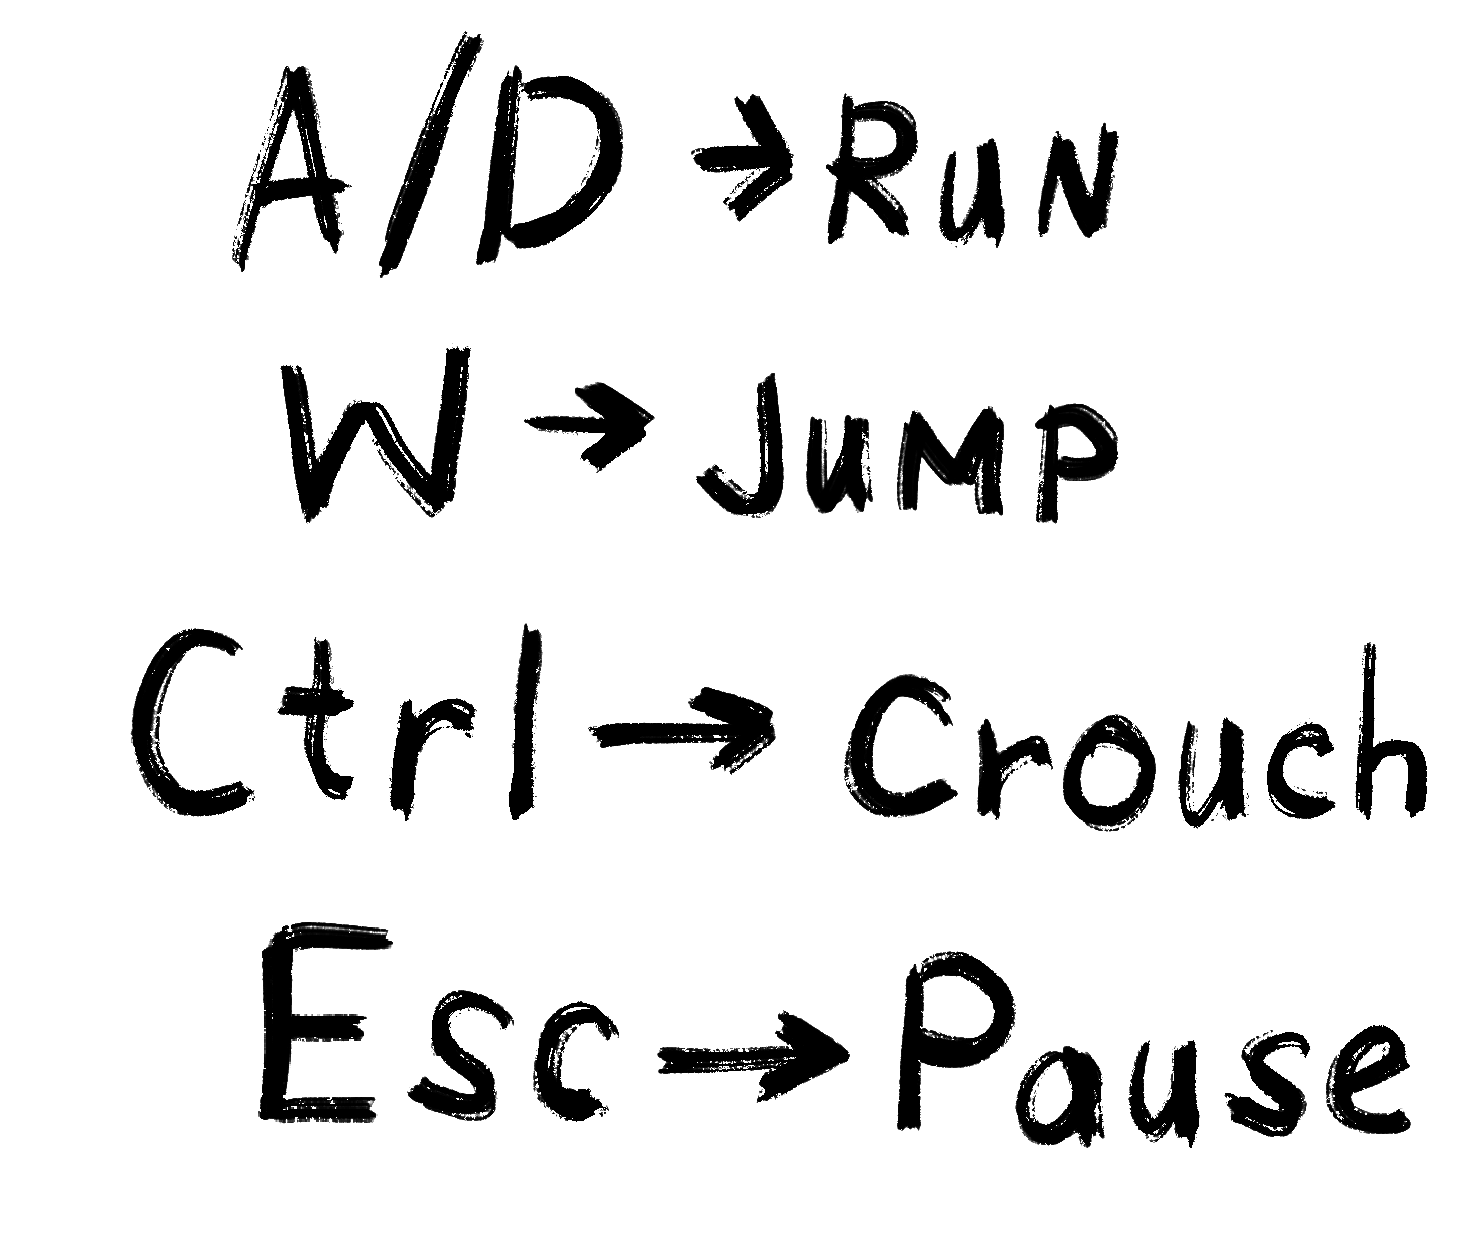
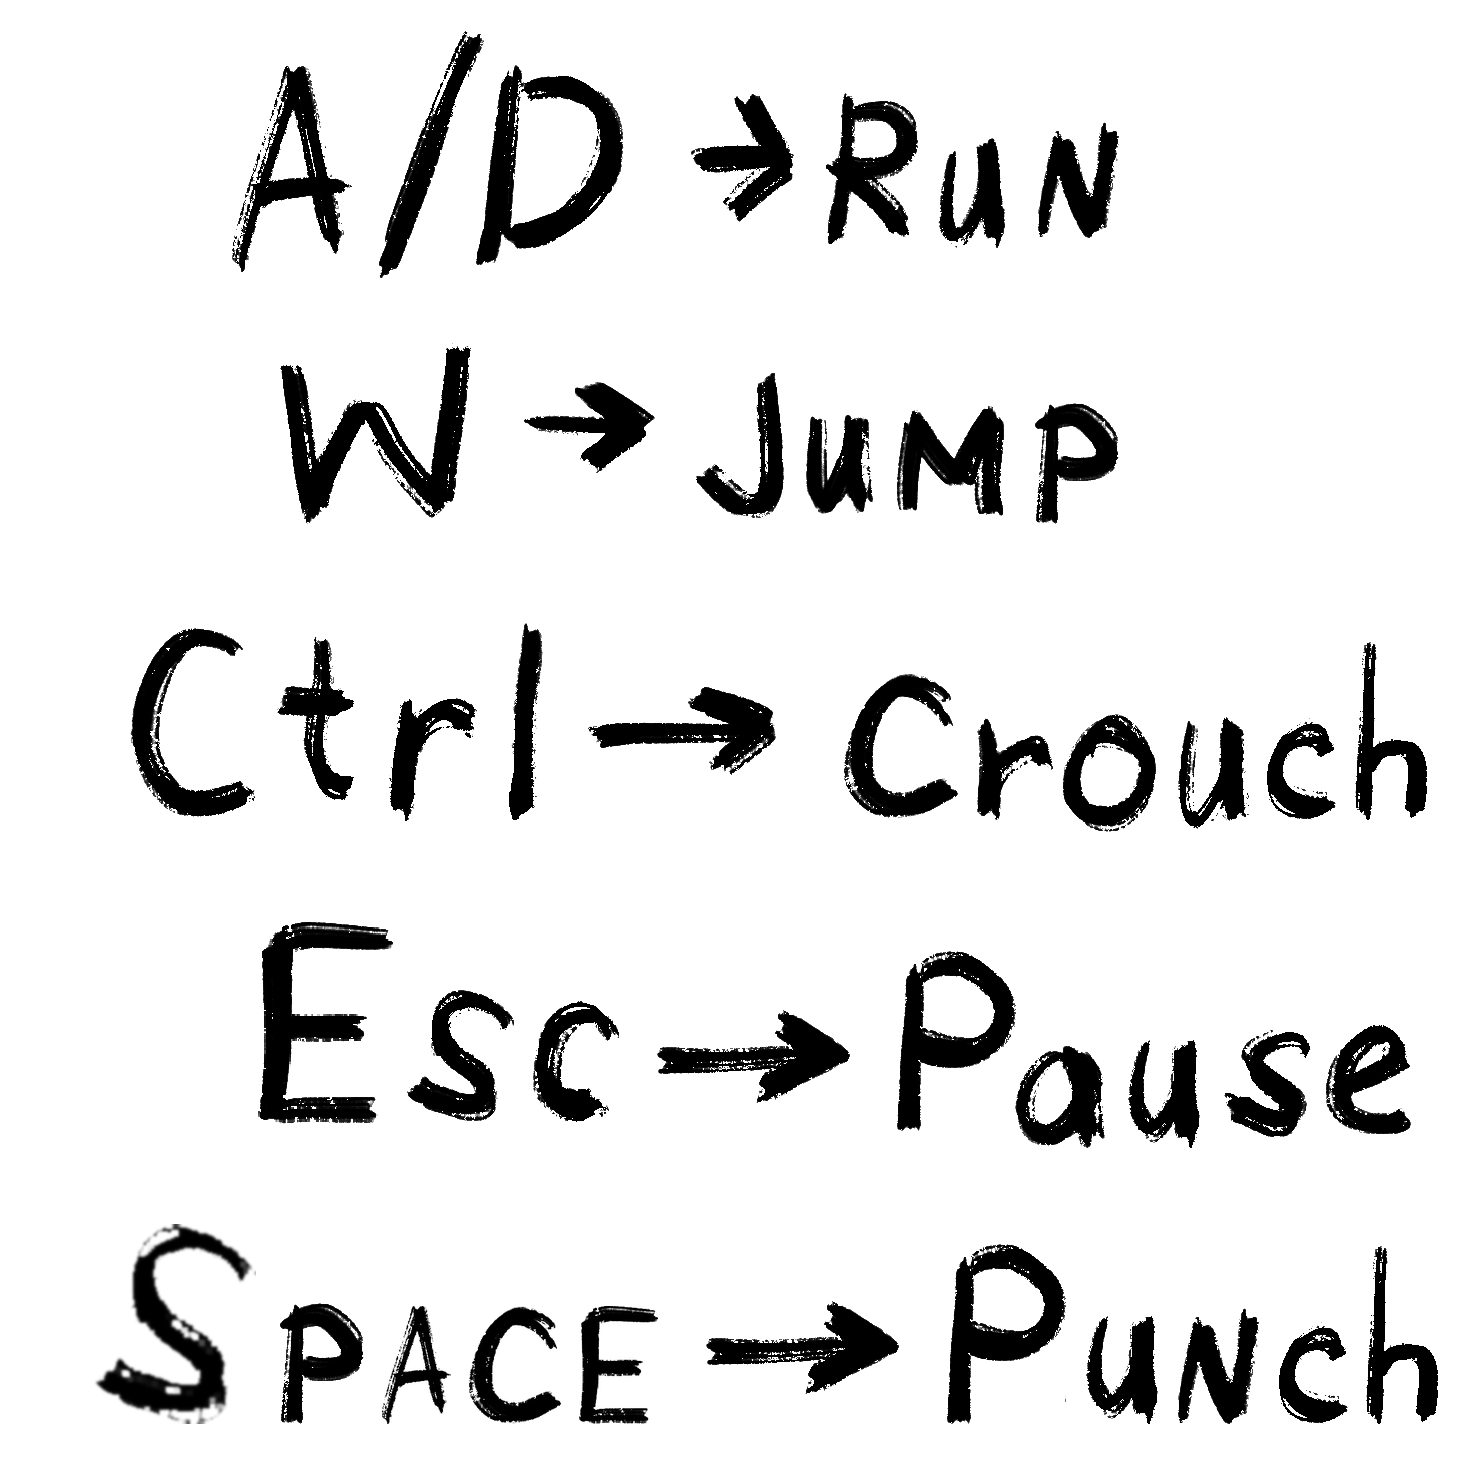
Show the controls on screen at the start, with a Space to punch line
- The controls sheet gets a 'SPACE -> Punch' line made from the
  artist's own letters (cut from the other four lines).
- A small controls window shows bottom-left as soon as play starts,
  without pausing, and fades once the hero has run and jumped (at least
  3 s, at most 12 s of play). Once per launch; the pause menu still
  shows the full sheet.
- Set Up Menus adds it and resizes the pause menu's copy; CLAUDE.md
  updated.

diff --git a/Assets/Scripts/UI/ControlsHint.cs b/Assets/Scripts/UI/ControlsHint.cs
@@ -1,0 +1,73 @@
+using UnityEngine;
+using UnityEngine.InputSystem;
+
+namespace NoRegRats
+{
+    /// <summary>
+    /// The controls sheet in the corner of the screen when play first starts (once per launch, not
+    /// after deaths or restarts), so the keys are seen right away without stopping the game. It
+    /// waits while a menu is open, then fades out once the hero has both run and jumped, or after
+    /// a while at the most. The same sheet stays in the pause menu.
+    /// </summary>
+    [RequireComponent(typeof(CanvasGroup))]
+    public class ControlsHint : MonoBehaviour
+    {
+        [Tooltip("Seconds it stays up at least, even if the keys are used straight away.")]
+        [SerializeField] float minimumTime = 3f;
+        [Tooltip("Seconds after which it fades out anyway.")]
+        [SerializeField] float maximumTime = 12f;
+        [Tooltip("Seconds the fade takes.")]
+        [SerializeField] float fadeTime = 0.8f;
+
+        static bool shownThisLaunch;
+
+        CanvasGroup group;
+        InputAction moveAction;
+        InputAction jumpAction;
+        float shownFor;
+        bool ran;
+        bool jumped;
+        bool fading;
+
+        [RuntimeInitializeOnLoadMethod(RuntimeInitializeLoadType.SubsystemRegistration)]
+        static void ResetOnLaunch() => shownThisLaunch = false;
+
+        void Awake()
+        {
+            group = GetComponent<CanvasGroup>();
+            group.blocksRaycasts = false;
+            moveAction = InputSystem.actions.FindAction("Player/Move", throwIfNotFound: true);
+            jumpAction = InputSystem.actions.FindAction("Player/Jump", throwIfNotFound: true);
+        }
+
+        void Start()
+        {
+            if (shownThisLaunch)
+            {
+                gameObject.SetActive(false);
+                return;
+            }
+            shownThisLaunch = true;
+            group.alpha = 1f;
+        }
+
+        void Update()
+        {
+            // Time only counts during play, so it isn't used up behind the title or the pause menu.
+            if (GamePause.IsFrozen)
+                return;
+
+            shownFor += Time.deltaTime;
+            ran |= Mathf.Abs(moveAction.ReadValue<Vector2>().x) > 0.5f;
+            jumped |= jumpAction.WasPressedThisFrame();
+            if (!fading && shownFor >= minimumTime && ((ran && jumped) || shownFor >= maximumTime))
+                fading = true;
+            if (!fading)
+                return;
+
+            group.alpha = Mathf.MoveTowards(group.alpha, 0f, Time.deltaTime / fadeTime);
+            if (group.alpha <= 0f)
+                gameObject.SetActive(false);
+        }
+    }
+}

diff --git a/Assets/Editor/MenuSetup.cs b/Assets/Editor/MenuSetup.cs
@@ -33,6 +33,7 @@ namespace NoRegRats
         const float PauseWindowScale = 0.55f;
         const float PauseWindowGap = 40f;
         const float ControlsInWindow = 0.85f;
+        const float ControlsHintScale = 0.25f;
 
         static readonly Color TitleBackground = new Color32(187, 187, 187, 255);
         static readonly Color Dim = new Color(0.17f, 0.17f, 0.2f, 0.6f);
@@ -57,6 +58,8 @@ namespace NoRegRats
             }
             BuildLives(hud);
             BuildPauseButton(hud);
+            BuildControlsHint(hud);
+            FitControlsSheet(hud);
             AddClickSound();
 
             EditorSceneManager.MarkSceneDirty(scene);
@@ -121,6 +124,33 @@ namespace NoRegRats
             // With the HUD, under the menus.
             rect.SetSiblingIndex(hud.Find("Hearts").GetSiblingIndex() + 1);
             SetObject(Get<PauseMenu>(hud), "pauseButton", button);
+        }
+
+        /// <summary>
+        /// The controls sheet in a small window in the bottom-left corner, shown when play first
+        /// starts and faded out by ControlsHint once the keys have been used.
+        /// </summary>
+        internal static void BuildControlsHint(Transform hud)
+        {
+            if (hud.Find("Controls Hint") != null)
+                return;
+            Vector2 size = Window * ControlsHintScale;
+            RectTransform card = Rect("Controls Hint", hud, Vector2.zero, new Vector2(30f, 30f) + size * 0.5f, size, new Vector2(0.5f, 0.5f));
+            card.gameObject.AddComponent<CanvasGroup>();
+            Picture(Rect("Back", card, new Vector2(0.5f, 0.5f), Vector2.zero, size, new Vector2(0.5f, 0.5f)), Art("Window"));
+            Sprite keys = Art("Controls");
+            Picture(Rect("Keys", card, new Vector2(0.5f, 0.5f), Vector2.zero, keys.rect.size * ControlsHintScale * ControlsInWindow, new Vector2(0.5f, 0.5f)), keys);
+            card.gameObject.AddComponent<ControlsHint>();
+            // With the HUD, under the menus.
+            card.SetSiblingIndex(hud.Find("Hearts").GetSiblingIndex() + 1);
+        }
+
+        // Keeps the pause screen's copy of the controls sheet sized to the drawing, which grew a line.
+        static void FitControlsSheet(Transform hud)
+        {
+            var keys = (RectTransform)hud.Find("Pause Menu/Controls/Keys");
+            if (keys != null)
+                keys.sizeDelta = Art("Controls").rect.size * PauseWindowScale * ControlsInWindow;
         }
 
         // --- Screens ---

diff --git a/Assets/Editor/HudSetup.cs b/Assets/Editor/HudSetup.cs
@@ -10,9 +10,9 @@ namespace NoRegRats
 {
     /// <summary>
     /// Builds Level1's UI into its HUD canvas: hearts (top left), goal text (top centre), the
-    /// boss bar moved to the bottom, a speech bubble, the lives counter, the pause button and the
-    /// menus (built by MenuSetup); plus an EventSystem for the buttons, a goal trigger where the sewers start, and
-    /// the joke sign's speech trigger. Only adds what isn't there yet. All text uses the first font found in
+    /// boss bar moved to the bottom, a speech bubble, the lives counter, the pause button, the
+    /// controls hint and the menus (built by MenuSetup); plus an EventSystem for the buttons, a
+    /// goal trigger where the sewers start, and the joke sign's speech trigger. Only adds what isn't there yet. All text uses the first font found in
     /// Assets/Art/Fonts/ (drop the hand-drawn font there), or Unity's built-in one.
     /// </summary>
     public static class HudSetup
@@ -53,6 +53,7 @@ namespace NoRegRats
             MenuSetup.Build(hud, playerHealth);
             MenuSetup.BuildLives(hud);
             MenuSetup.BuildPauseButton(hud);
+            MenuSetup.BuildControlsHint(hud);
             BuildEventSystem();
             BuildLevelTriggers(goal, speech);
 

diff --git a/CLAUDE.md b/CLAUDE.md
@@ -36,7 +36,7 @@ Still open (ask Robert who is taking what before starting one):
 | Sound effects | WAV or OGG files: jump, land, footstep, punch (a whoosh, for a miss), hit, rat poof, hurt, King throw, King defeated, Heart, gate, menu click | See "Adding sounds and music" below. No code changes |
 | Brass knuckles | Item art; then code: picking them up raises punch damage | Not started. `PlayerPunch`'s `damage` is the value to raise |
 | Pause button drawing | A PNG of the in-game pause button, saved over `Assets/Art/UI/Menus/PauseButton.png` | The current one is a stand-in drawn to match the menu buttons |
-| Punch drawing | Hero punching frame(s), and an Attack (Space) line on the controls sheet `Assets/Art/UI/Menus/Controls.png` | The punch is faked with a lunge and stretch (`HeroAnimator.Punch`) until then |
+| Punch drawing | Hero punching frame(s) | The punch is faked with a lunge and stretch (`HeroAnimator.Punch`) until then. The controls sheet's "SPACE → Punch" line is pieced together from the artist's own letters; redraw it if wanted (`Assets/Art/UI/Menus/Controls.png`) |
 | Music | A level track and a boss track | Same as sound effects |
 | Hand-drawn font | A `.ttf` or `.otf` file | See "Adding a font" below |
 | Final art for rats, Rat King, Heart, sewer pieces | PNGs with transparent backgrounds | See "Replacing art" below. The current ones are cut out of the paper-prototype photos |
@@ -171,15 +171,15 @@ Notes for Claude:
 | `Assets/Scripts/Enemies/` | `RatEnemy`, `RatKing`, `TrashProjectile` |
 | `Assets/Scripts/Items/` | `HeartPickup` |
 | `Assets/Scripts/Level/` | `GameSession` (lives, what survives a death, the win or loss, run time), `ParallaxBackground`, `BossArena`, `SlidingGate`, `LevelExit`, `GoalTrigger`, `SpeechTrigger` |
-| `Assets/Scripts/UI/` | `ScreenFader` (fade out, reload the level, fade in), `BossHealthBar`, `HeartsDisplay`, `LivesDisplay`, `GoalText`, `SpeechBubble`, `TitleMenu`, `PauseMenu`, `WinScreen`, `LoseScreen`, `MenuButtonFeedback`, `GamePause` (freeze behind menus) |
-| `Assets/Art/` | Drawn art. `Hero/`: `Hero_Idle.png` and `Hero_Run_1..8.png` (originals at full size; imported capped at 512 px). `Rats/`: `Rat_Plain.png`, `Rat_RedCap.png`, `Rat_Jacket.png`, `RatKing.png`, cut out of the paper-prototype sketch photos (placeholders; replace with same-named PNGs). `Items/Heart.png` (cut out). `Placeholder/`: `PaperBall.png`, `Trash.png`, `Bars.png` (tiles vertically, 1 x 4 units), `Puff.png` (scribble puff, 1 unit). `Level/`: level pieces cut out of the sketch photos (the train car is one drawn end mirrored; the two signs were redrawn because their light grey can't be separated from the grid). `Street/`: the team artist's street pieces (Ground1–4 sidewalk slabs, Street road strip, Tile1/1_2/2/3 floating sidewalk chunks, FireHydrant, GarbageBin, PowerBox), sized from their mockup. `Background/GraphPaper.png`: generated, tiles at 1 cell = 1 unit. `Background/Resources/`: `City1_*.png` / `City2_*.png`, the team's two skylines split into `Far`, `Mid` and `Near` layers with transparent backgrounds (replace with same-named PNGs). `Subway/`: the team artist's subway pieces (Ground platform floor, Tile1–3 floating tiles, FireExtinguisher, WetFloorSign, RecycleBin, PhoneBooth), sized from their mockup. `UI/`: `HeartFull.png` / `HeartEmpty.png` (made from the Heart cut-out), `SpeechBubble.png`; `UI/Menus/`: the team's menu drawings, cut from their mockups: `Title/` (Title, Start, Continue, Exit, Character), `Window.png` (the frame shared by pause / won / lost), `Restart.png`, `Quit.png`, `Controls.png` (the controls sheet), `PauseButton.png` (stand-in for the in-game pause button), `Paused/Continue.png`, `YouWon/` (YouWon, Stats labels, PlayAgain, Quit), `YouLost/YouLost.png`. `Fonts/` (not there yet): put the hand-drawn font here; see "UI" |
+| `Assets/Scripts/UI/` | `ScreenFader` (fade out, reload the level, fade in), `BossHealthBar`, `HeartsDisplay`, `LivesDisplay`, `ControlsHint`, `GoalText`, `SpeechBubble`, `TitleMenu`, `PauseMenu`, `WinScreen`, `LoseScreen`, `MenuButtonFeedback`, `GamePause` (freeze behind menus) |
+| `Assets/Art/` | Drawn art. `Hero/`: `Hero_Idle.png` and `Hero_Run_1..8.png` (originals at full size; imported capped at 512 px). `Rats/`: `Rat_Plain.png`, `Rat_RedCap.png`, `Rat_Jacket.png`, `RatKing.png`, cut out of the paper-prototype sketch photos (placeholders; replace with same-named PNGs). `Items/Heart.png` (cut out). `Placeholder/`: `PaperBall.png`, `Trash.png`, `Bars.png` (tiles vertically, 1 x 4 units), `Puff.png` (scribble puff, 1 unit). `Level/`: level pieces cut out of the sketch photos (the train car is one drawn end mirrored; the two signs were redrawn because their light grey can't be separated from the grid). `Street/`: the team artist's street pieces (Ground1–4 sidewalk slabs, Street road strip, Tile1/1_2/2/3 floating sidewalk chunks, FireHydrant, GarbageBin, PowerBox), sized from their mockup. `Background/GraphPaper.png`: generated, tiles at 1 cell = 1 unit. `Background/Resources/`: `City1_*.png` / `City2_*.png`, the team's two skylines split into `Far`, `Mid` and `Near` layers with transparent backgrounds (replace with same-named PNGs). `Subway/`: the team artist's subway pieces (Ground platform floor, Tile1–3 floating tiles, FireExtinguisher, WetFloorSign, RecycleBin, PhoneBooth), sized from their mockup. `UI/`: `HeartFull.png` / `HeartEmpty.png` (made from the Heart cut-out), `SpeechBubble.png`; `UI/Menus/`: the team's menu drawings, cut from their mockups: `Title/` (Title, Start, Continue, Exit, Character), `Window.png` (the frame shared by pause / won / lost), `Restart.png`, `Quit.png`, `Controls.png` (the controls sheet; its last line, "SPACE → Punch", is built from letters cut from the other four), `PauseButton.png` (stand-in for the in-game pause button), `Paused/Continue.png`, `YouWon/` (YouWon, Stats labels, PlayAgain, Quit), `YouLost/YouLost.png`. `Fonts/` (not there yet): put the hand-drawn font here; see "UI" |
 | `Assets/Scripts/Objects/` | `PushableBox` |
 | `Assets/Scripts/Effects/` | `PuffSpawner` (pooled dust / paper-scrap puffs), `Sfx` (sound effects), `Music` (level and boss tracks) |
 | `Assets/Scripts/Camera/` | `CameraFollow2D` (on the Main Camera) |
 | `Assets/Sprites/Placeholder/` | Generated stand-in art (crate, white square used for platforms) |
 | `Assets/Physics/` | `NoFriction.physicsMaterial2D` (on the player so it never sticks to walls) |
 | `Assets/Audio/` | Music and sound effects |
-| `Assets/Editor/` | Editor-only scripts. `ArtImportSettings` (first-import sprite settings for `Assets/Art/`), `HeroSetup` (Tools > NoRegRats > Set Up Hero Sprite), `CombatSetup` (Tools > NoRegRats > Set Up Combat: sprite sizes, PaperBall and rat prefabs if missing (stats in its `RatTypes` table), the Player's combat components, the test rats), `MovementTestSetup` (Tools > NoRegRats > Set Up Push And Crouch Test), `Level1Builder` (Tools > NoRegRats > Build Level1: creates missing level-piece prefabs and builds Level1 only if it doesn't exist; never overwrites it), `BossArenaSetup` (Tools > NoRegRats > Set Up Boss Arena: boss prefabs if missing, and the fight added to Level1's arena if not there yet), `HudSetup` (Tools > NoRegRats > Set Up HUD: Level1's UI, EventSystem, goal and joke-sign triggers if not there yet), `PolishSetup` (Tools > NoRegRats > Set Up Effects And Audio: HeroEffects on the Player, "Effects" and "Audio" objects in both scenes if missing), `StreetDressing` (Tools > NoRegRats > Dress Level1 Street: street prefabs if missing, and Level1's first section dressed with them if not already), `PunchSetup` (Tools > NoRegRats > Set Up Punching: PlayerPunch on the Player instead of the old shooter, the Rat King's stop distance), `MenuSetup` (Tools > NoRegRats > Set Up Menus: the drawn title / pause / won / lost screens, the lives counter and the HUD pause button, replacing the old plain menus if the drawn ones aren't there), `SubwaySetup` (Tools > NoRegRats > Build Subway Station: subway prefabs if missing, and the station added between the street and the sewers if not there yet, moving everything after it right by 56) |
+| `Assets/Editor/` | Editor-only scripts. `ArtImportSettings` (first-import sprite settings for `Assets/Art/`), `HeroSetup` (Tools > NoRegRats > Set Up Hero Sprite), `CombatSetup` (Tools > NoRegRats > Set Up Combat: sprite sizes, PaperBall and rat prefabs if missing (stats in its `RatTypes` table), the Player's combat components, the test rats), `MovementTestSetup` (Tools > NoRegRats > Set Up Push And Crouch Test), `Level1Builder` (Tools > NoRegRats > Build Level1: creates missing level-piece prefabs and builds Level1 only if it doesn't exist; never overwrites it), `BossArenaSetup` (Tools > NoRegRats > Set Up Boss Arena: boss prefabs if missing, and the fight added to Level1's arena if not there yet), `HudSetup` (Tools > NoRegRats > Set Up HUD: Level1's UI, EventSystem, goal and joke-sign triggers if not there yet), `PolishSetup` (Tools > NoRegRats > Set Up Effects And Audio: HeroEffects on the Player, "Effects" and "Audio" objects in both scenes if missing), `StreetDressing` (Tools > NoRegRats > Dress Level1 Street: street prefabs if missing, and Level1's first section dressed with them if not already), `PunchSetup` (Tools > NoRegRats > Set Up Punching: PlayerPunch on the Player instead of the old shooter, the Rat King's stop distance), `MenuSetup` (Tools > NoRegRats > Set Up Menus: the drawn title / pause / won / lost screens, the lives counter, the HUD pause button and the controls hint, replacing the old plain menus if the drawn ones aren't there), `SubwaySetup` (Tools > NoRegRats > Build Subway Station: subway prefabs if missing, and the station added between the street and the sewers if not there yet, moving everything after it right by 56) |
 | `Assets/Settings/` | URP / 2D renderer assets, input actions (from the template) |
 
 ## Player
@@ -298,8 +298,11 @@ Notes for Claude:
   `Goal` (top centre, `GoalText`), `Boss Bar` (bottom centre, `BossHealthBar`), `Speech`
   (`SpeechBubble`: one line at a time above a world object, follows it on screen), and the
   `Title Menu`, `Pause Menu`, `Win Screen`, `Lose Screen` panels (components on the HUD root),
-  `Lives` (`LivesDisplay`, under the hearts; pops and flashes after a death), and `Pause Button`
-  (top-right, opens the pause menu during play). An `EventSystem`
+  `Lives` (`LivesDisplay`, under the hearts; pops and flashes after a death), `Pause Button`
+  (top-right, opens the pause menu during play), and `Controls Hint` (`ControlsHint`, the
+  controls sheet in a small window bottom-left: shown when play first starts, once per launch,
+  without pausing; fades once the hero has run and jumped, after at least 3 s and at most 12 s
+  of play). An `EventSystem`
   with `InputSystemUIInputModule` (project-wide UI actions) drives the buttons. The HUD has no
   `GraphicRaycaster` in the scene, so `TitleMenu` adds one at runtime; without it the mouse can't
   reach any menu. Test menus with real clicks, not by calling `onClick` from code.
